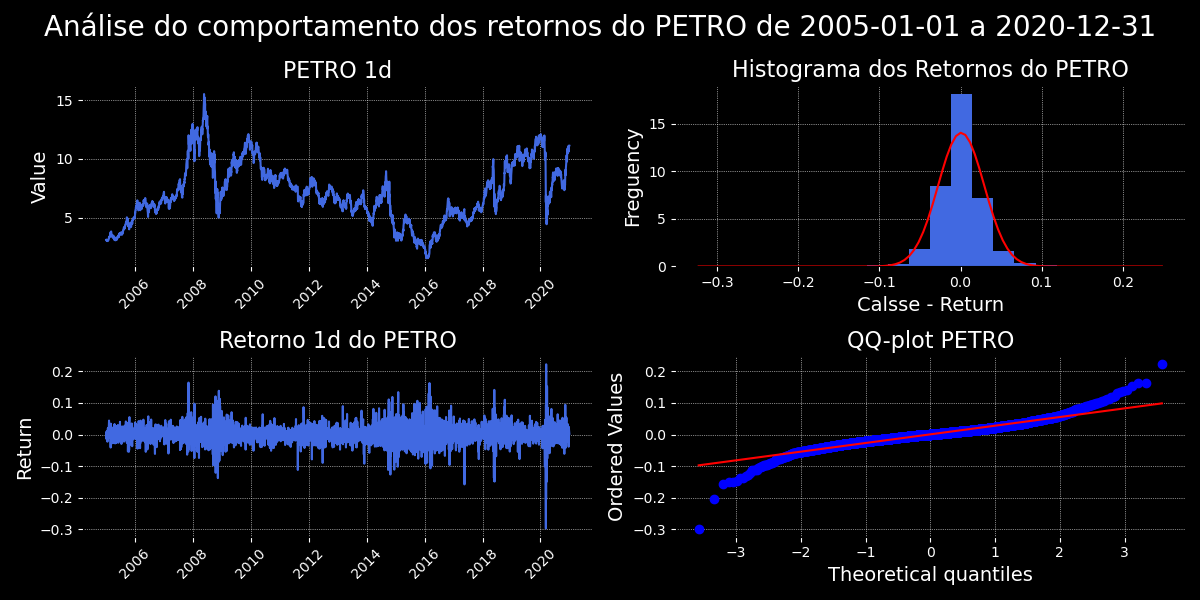
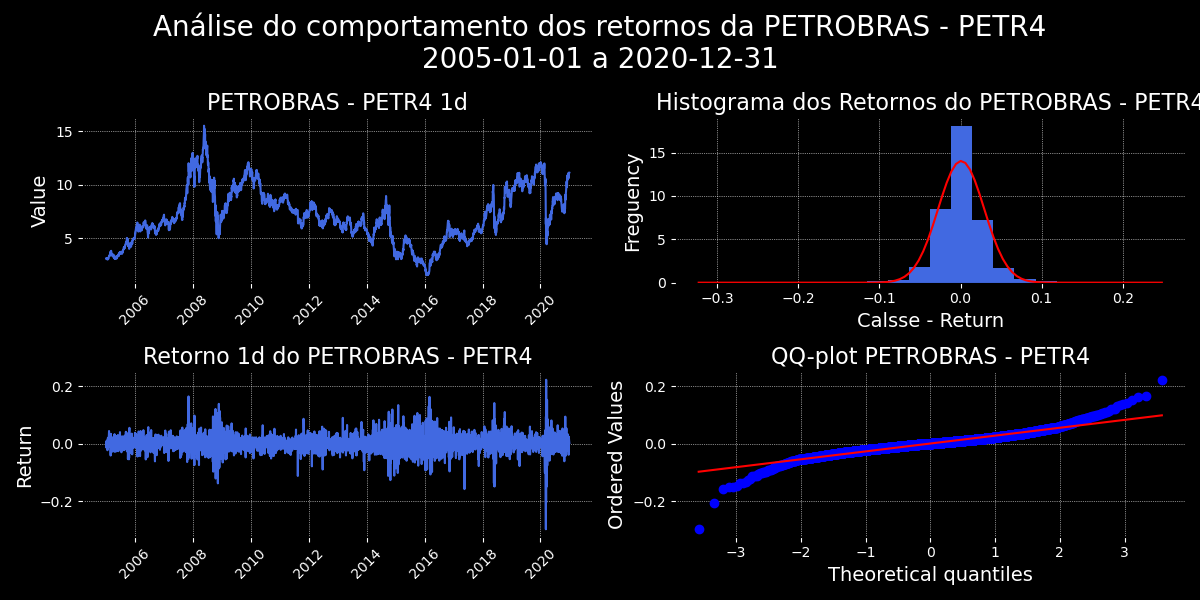
Uptade

diff --git a/Check_distribution_type_STOCK.py b/Check_distribution_type_STOCK.py
@@ -25,7 +25,7 @@ plt.rcParams['axes.axisbelow'] = True
 stock = 'PETR4.SA'
 initial_date = '2005-01-01'
 end_date = '2020-12-31'
-name = 'PETRO'
+name = 'PETROBRAS - PETR4'
 period = '1d'
 
 data_base = pd.DataFrame(yf.download(stock,start=initial_date,end=end_date,interval=period)['Adj Close'])
@@ -71,7 +71,8 @@ plt.subplot(224)
 sci.probplot(returns,dist='norm',plot=plt)
 plt.title(f'QQ-plot {name}')
 plt.grid(True)
-plt.suptitle(f'Análise do comportamento dos retornos do {name} de {initial_date} a {end_date}', fontsize=20, color='w')
+plt.suptitle(f'Análise do comportamento dos retornos da {name}\n'
+             f'{initial_date} a {end_date}', fontsize=20, color='w')
 
 
 plt.subplots_adjust(hspace=0.45)  # Ajusta o espaço vertical entre os subplots
